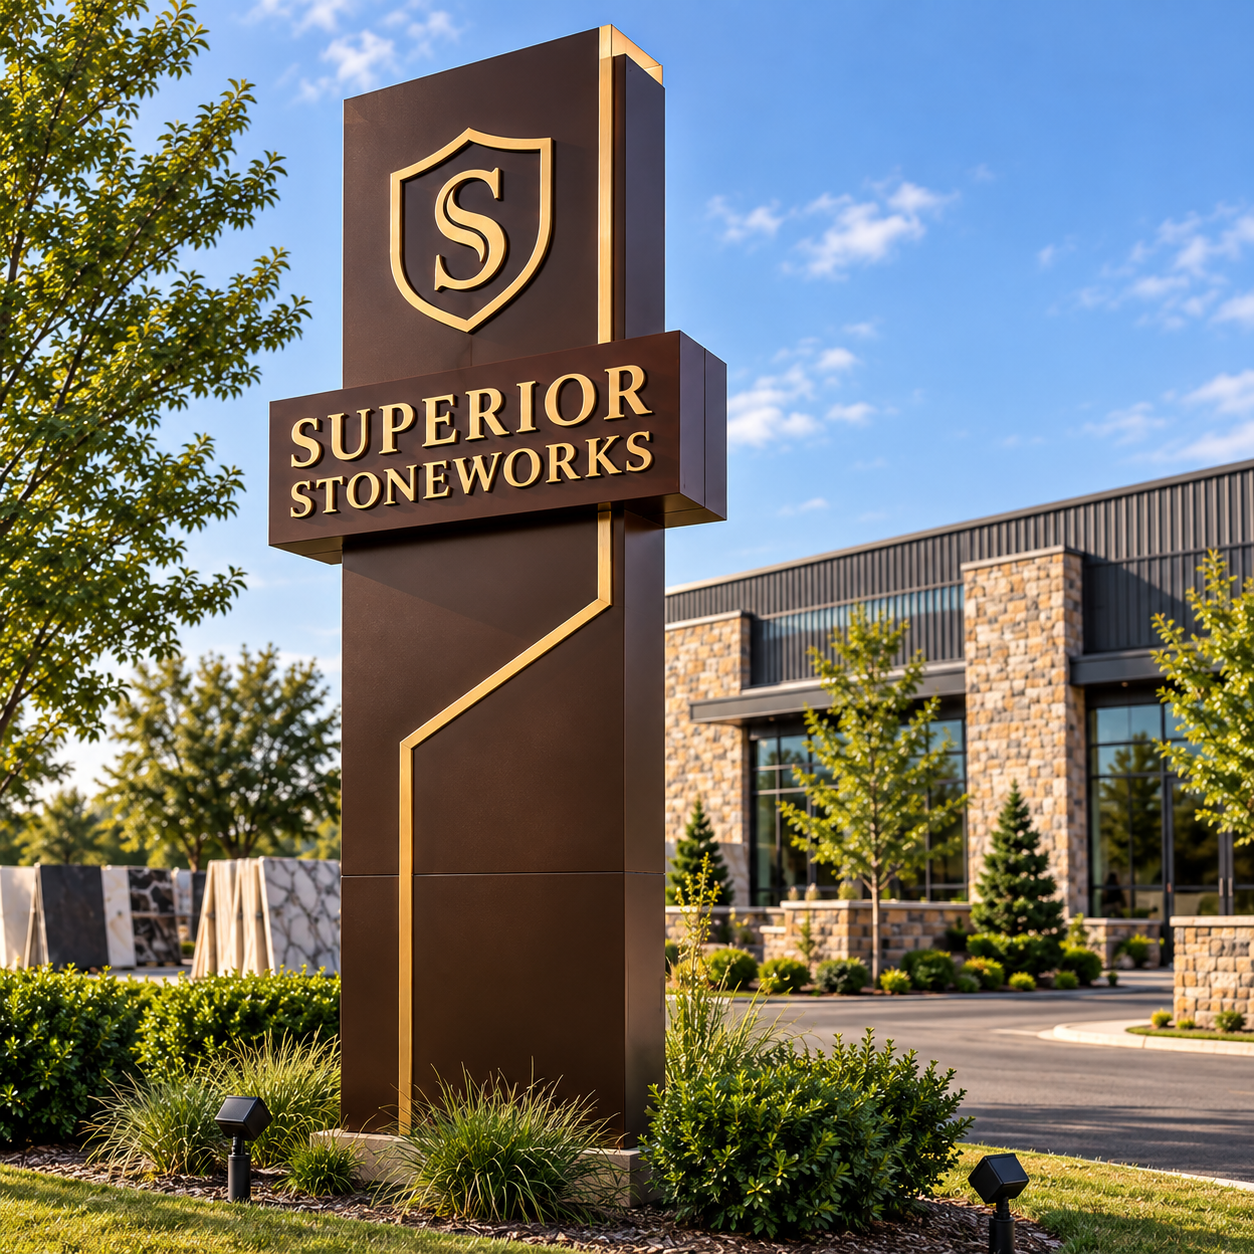
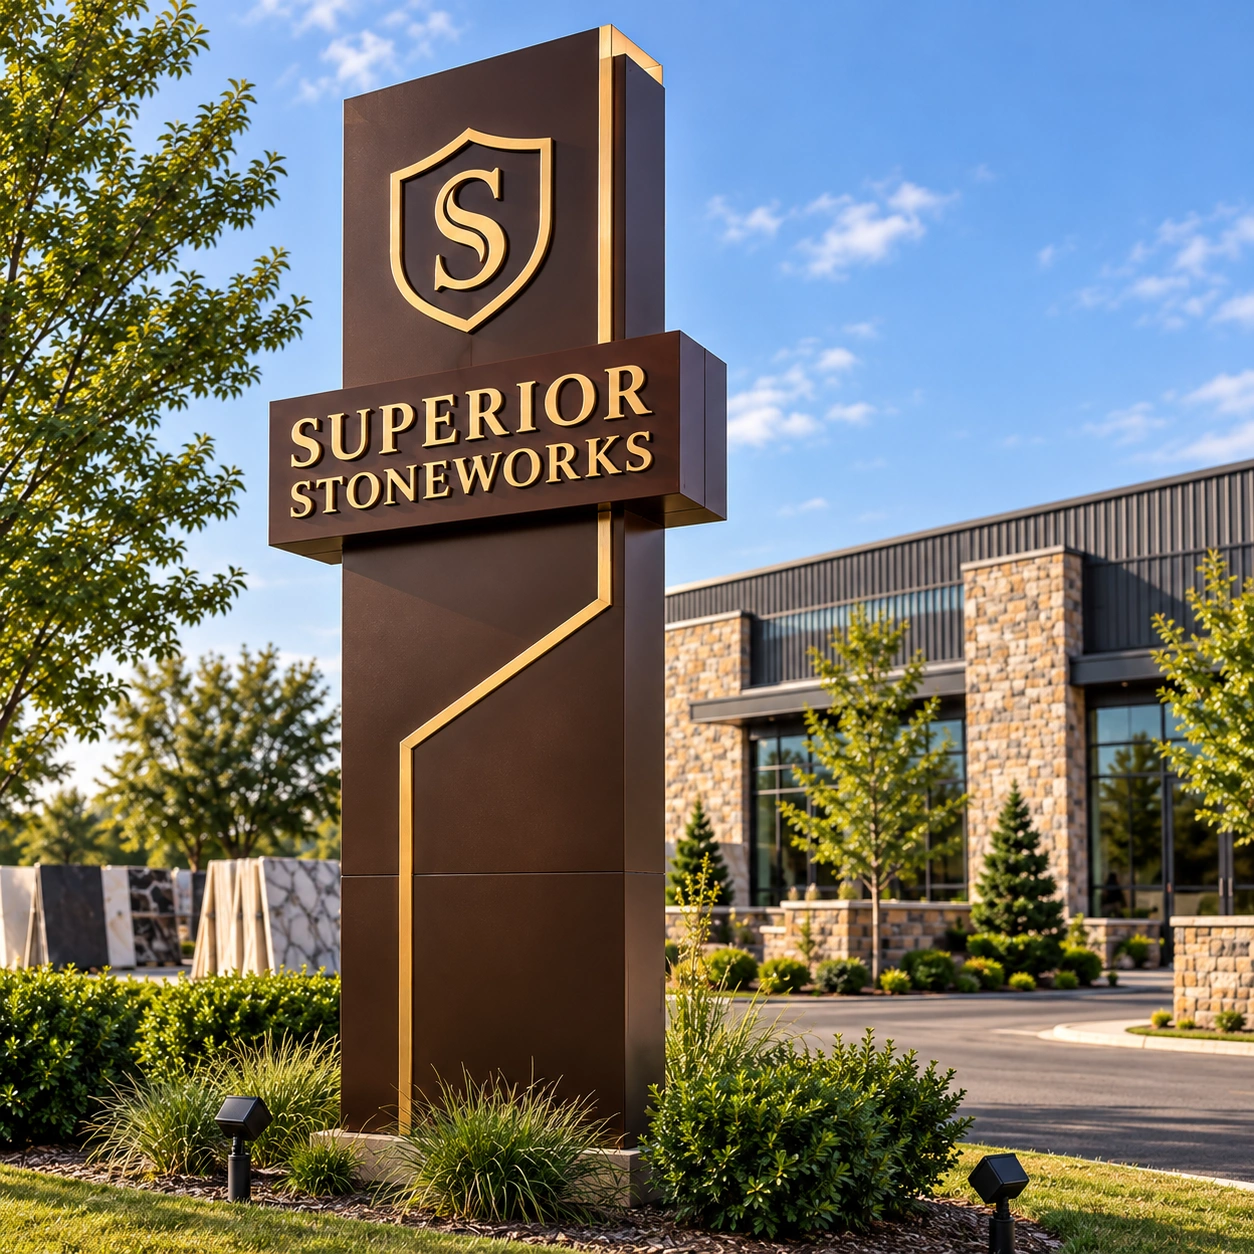
Re-encode the replaced artwork as real WebP and true up its declarations
The two replacement files landed as PNG bytes under names that promised
something else: cat-outdoor.webp was a PNG wearing a .webp extension, and
a-frame-sign.png was a PNG that the registry still described as 600x600.
Neither extension nor the recorded dimensions matched what was on disk, so
every og:image:width/height for those assets was wrong.

Both are now genuine WebP at 1254x1254, encoded at q=95. Lossless was
tried first but only reached -27% and -23%, which is not a real saving for
a hero image; at q=95 the finest type on the A-frame board and the gold
gradients on both were indistinguishable from the original at 2x
nearest-neighbour magnification. cat-outdoor.webp shrank from 2,555,366 to
515,998 bytes and a-frame-sign from 1,645,488 to 195,438.

a-frame-sign moves to the .webp name, so the two card entries that were
pointing at the old .png had to follow - IMAGE_SWAP_GUIDE.md is explicit
that a new filename means updating the matching src references, and
leaving them would have 404'd the image on the homepage and the products
index.

The stale comment about the artwork being a transparent 600x600 cut-out is
gone from both the registry and the product page, since the file is now an
opaque photo and neither claim holds any more.

Changed region(s): [[0.2177, 0.9019, 0.2488, 0.933], [0.1244, 0.0, 0.1555, 0.0311]]

diff --git a/src/app/products/portable-metal-a-frame-sign/page.tsx b/src/app/products/portable-metal-a-frame-sign/page.tsx
@@ -107,17 +107,16 @@ export default function PortableMetalAFrameSignPage() {
             </div>
             <div className="reveal visible relative">
               <div className="absolute -inset-4 bg-blue-500/20 blur-3xl rounded-full"></div>
-              {/* The supplied artwork is a transparent cut-out with near-black line
-                  work, which measured about 1.1:1 against the dark hero panel and
-                  would have disappeared on it. A light panel keeps every stroke of
-                  the cut-out legible, and object-contain keeps the whole cut-out in
-                  frame instead of cropping it the way a photograph can be cropped. */}
+              {/* object-contain keeps the whole sign inside the frame instead of
+                  cropping it the way the card images are cropped, and the light
+                  panel stops the photo's pale background from butting straight
+                  against the dark hero. */}
               <div className="relative rounded-[2.5rem] bg-slate-50 border border-slate-200 shadow-2xl flex items-center justify-center p-8 lg:p-10 h-[420px] lg:h-[500px]">
                 <Image
-                  src="/assets/images/a-frame-sign.png"
+                  src="/assets/images/a-frame-sign.webp"
                   alt="Portable metal A-frame sign"
-                  width={600}
-                  height={600}
+                  width={1254}
+                  height={1254}
                   priority
                   sizes="(min-width: 1024px) 50vw, 100vw"
                   className="object-contain w-full h-full"

diff --git a/src/app/products/page.tsx b/src/app/products/page.tsx
@@ -29,7 +29,7 @@ export default function ProductsPage() {
     { title: 'Outdoor Waste Bin', desc: 'Custom waste bins for hospitality, commercial, and public-space projects.', img: 'outdoor-waste-bin.jpg', id: 'outdoor-waste-bin' },
     { title: 'Custom Planter Box', desc: 'Architectural planter solutions for commercial entrances and public spaces.', img: 'custom-planter-box.jpg', id: 'custom-planter-box' },
     { title: 'Acrylic Desk Sign', desc: 'Free-standing counter and desk signs for reception and front-of-house.', img: 'acrylic-desk-sign.jpg', id: 'acrylic-desk-sign' },
-    { title: 'Portable Metal A-Frame Sign', desc: 'Free-standing A-frame signs for pavements, forecourts, and event stands.', img: 'a-frame-sign.png', id: 'portable-metal-a-frame-sign' },
+    { title: 'Portable Metal A-Frame Sign', desc: 'Free-standing A-frame signs for pavements, forecourts, and event stands.', img: 'a-frame-sign.webp', id: 'portable-metal-a-frame-sign' },
   ];
 
   return (

diff --git a/src/app/page.tsx b/src/app/page.tsx
@@ -464,7 +464,7 @@ export default function Home() {
                 { title: 'Outdoor Waste Bin', img: 'outdoor-waste-bin.jpg', id: 'outdoor-waste-bin' },
                 { title: 'Custom Planter Box', img: 'custom-planter-box.jpg', id: 'custom-planter-box' },
                 { title: 'Acrylic Desk Sign', img: 'acrylic-desk-sign.jpg', id: 'acrylic-desk-sign' },
-                { title: 'Portable Metal A-Frame Sign', img: 'a-frame-sign.png', id: 'portable-metal-a-frame-sign' },
+                { title: 'Portable Metal A-Frame Sign', img: 'a-frame-sign.webp', id: 'portable-metal-a-frame-sign' },
               ].map((p, i) => (
                 // Every card carries an id, so the link always resolves to its own
                 // detail page. The old `p.id ? ... : '/products'` fallback hid the

diff --git a/src/config/site.ts b/src/config/site.ts
@@ -48,8 +48,8 @@ export const ogImages = {
   },
   outdoor: {
     path: '/assets/images/cat-outdoor.webp',
-    width: 1536,
-    height: 1024,
+    width: 1254,
+    height: 1254,
     alt: 'Outdoor pylon and monument signage',
   },
   metalLogo: {
@@ -107,11 +107,9 @@ export const ogImages = {
     alt: 'Custom acrylic desk sign',
   },
   aFrameSign: {
-    path: '/assets/images/a-frame-sign.png',
-    // The supplied file is genuinely 600x600. Declared as measured rather than
-    // upscaled on paper, so og:image:width/height stay truthful.
-    width: 600,
-    height: 600,
+    path: '/assets/images/a-frame-sign.webp',
+    width: 1254,
+    height: 1254,
     alt: 'Portable metal A-frame sign',
   },
 } satisfies Record<string, OgImageSpec>;
